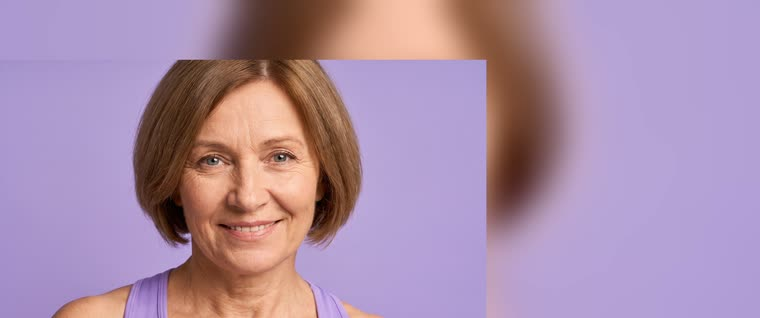
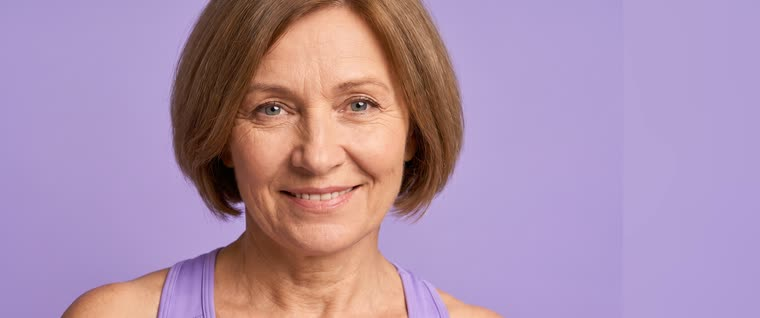
Плашки потоков: фигура крупнее, тон мягче
С прошлым уменьшением фигура почти терялась под цветным слоем. Масштаб
поднят, прозрачность тона снижена, у пяти небольших картинок убрана
ленивая загрузка — они нужны сразу.

diff --git a/src/screens/Player.tsx b/src/screens/Player.tsx
@@ -121,7 +121,7 @@ export default function Player() {
                 className={`stream-card stream-card--${s.theme} ${s.id === stream.id ? 'is-active' : ''}`}
                 onClick={() => navigate(`/player/${s.id}`)}
               >
-                <img className="stream-card__photo" src={s.cover} alt="" loading="lazy" />
+                <img className="stream-card__photo" src={s.cover} alt="" />
                 <span className="stream-card__tint" />
                 <span className="stream-card__fade" />
                 <span className="stream-card__text">

diff --git a/src/screens/Player.css b/src/screens/Player.css
@@ -85,7 +85,7 @@
   inset: 0;
   background: var(--card-grad);
   mix-blend-mode: color;
-  opacity: .88;
+  opacity: .72;
 }
 
 .stream-card__fade {
